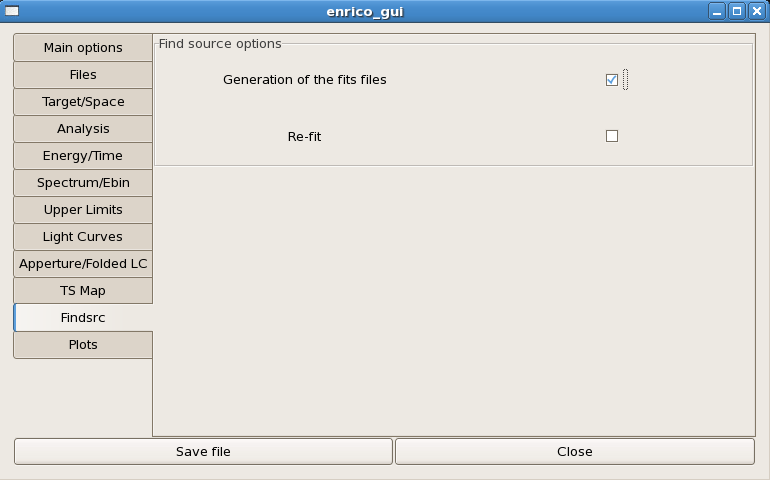
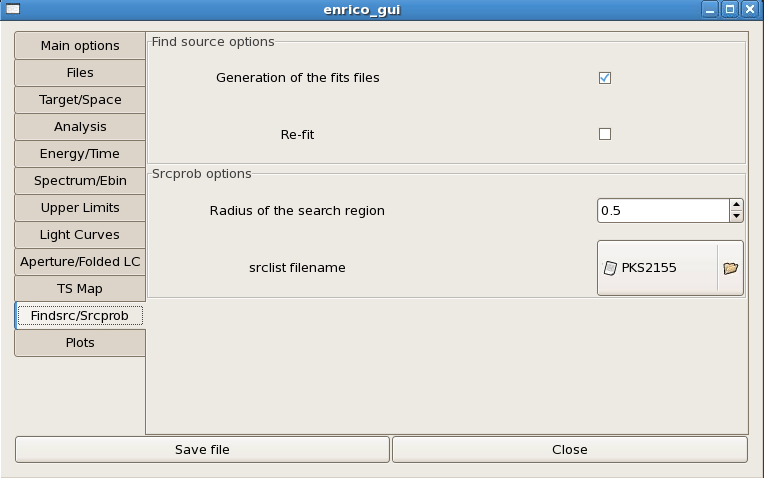
add gtsrcprob

diff --git a/enrico/gui.py b/enrico/gui.py
@@ -173,7 +173,6 @@ class EnricoGui:
         else: 
            self.config['time']['file'] = self.ftime.get_filename()
 
-
         self.config["time"]["type"] = self.listtime.entry.get_text()
 
         self.config["Ebin"]["NumEnergyBins"] = int(self.nebin.get_value())
@@ -201,6 +200,9 @@ class EnricoGui:
 
         self.config["fitting"]["optimizer"] = self.listopt.entry.get_text()
         self.config["fitting"]["ftol"] = pow(10,self.ftol.get_value())
+
+        self.config["srcprob"]["rad"] = self.radsrcprob.get_value()
+        self.config["srcprob"]["srclist"] = self.srclist.get_filename()
 
         self.config.write(open(self.infile, 'w'))
 
@@ -442,26 +444,31 @@ class EnricoGui:
         findsrcbutton.show()
         tablebut.attach(findsrcbutton, 4,6,3,4)
 
+        srcprobbutton = gtk.Button("run enrico_ srcprob")
+        srcprobbutton.connect("clicked", self.Launch, 'enrico_srcprob')
+        srcprobbutton.show()
+        tablebut.attach(srcprobbutton, 2,4,4,5)
+
         sep2 = gtk.HSeparator()
         sep2.show()
-        tablebut.attach(sep2, 0,6,4,5)
+        tablebut.attach(sep2, 0,6,5,6)
 
         applcbutton = gtk.Button("run enrico_ applc")
         applcbutton.connect("clicked", self.Launch, 'enrico_applc')
         applcbutton.show()
-        tablebut.attach(applcbutton,0, 2,5,6)
+        tablebut.attach(applcbutton,0, 2,6,7)
 
         foldedlcbutton = gtk.Button("run enrico_ foldedlc")
         foldedlcbutton.connect("clicked", self.Launch, 'enrico_foldedlc')
         foldedlcbutton.show()
-        tablebut.attach(foldedlcbutton, 2,4,5,6)
+        tablebut.attach(foldedlcbutton, 2,4,6,7)
  
         foldedlcplotbutton = gtk.Button("run enrico_ plot_ foldedlc")
         foldedlcplotbutton.connect("clicked", self.Launch, 'enrico_plot_foldedlc')
         foldedlcplotbutton.show()
-        tablebut.attach(foldedlcplotbutton, 4,6,5,6)
+        tablebut.attach(foldedlcplotbutton, 4,6,6,7)
 
-        BNPage.attach(framebut, 0, 8, 2,6)
+        BNPage.attach(framebut, 0, 8, 2,7)
  
     def _addAnalysis(self):
         BNPage = self.AddBlocNotePage("Analysis")
@@ -953,8 +960,8 @@ class EnricoGui:
         table.attach(label, 0, 2,3,4)
         table.attach(self.listtsmethod, 3,4,3,4)
 
-    def _addfindsrc(self):
-        BNPage = self.AddBlocNotePage("Findsrc")
+    def _addfindsrcsrcprob(self):
+        BNPage = self.AddBlocNotePage("Findsrc/Srcprob")
         frame,table = self._addFrame("Find source options",2,4)
         BNPage.attach(frame, 0, 8, 0, 2)
 
@@ -977,6 +984,25 @@ class EnricoGui:
         label.show()
         table.attach(label,0, 2,1,2)
         table.attach(reFitButton, 3,4,1,2)
+
+        frameprob,tableprob = self._addFrame("Srcprob options",2,4)
+        BNPage.attach(frameprob, 0, 8, 2, 4)
+        self.radsrcprob = self.AddSpinButton(self.config["srcprob"]["rad"],0, 360, .1, 1) 
+
+        labrad = gtk.Label("Radius of the search region")
+        labrad.show()
+        tableprob.attach(labrad,0, 2,0,1)
+        tableprob.attach(self.radsrcprob,3,4,0, 1)
+
+        self.srclist = gtk.FileChooserButton("srclist")
+        self.srclist.set_title("srclist")
+        self.srclist.set_filename(self.config['srcprob']['srclist'])
+        self.srclist.show()
+
+        labsrclist = gtk.Label("srclist filename")
+        labsrclist.show()
+        tableprob.attach(labsrclist,0, 2,1,2)
+        tableprob.attach(self.srclist,3,4,1,2)
 
     def _addPlot(self):
 
@@ -1068,7 +1094,7 @@ class EnricoGui:
         self._addAppFoldedLC()
 #        self._addEbin()
         self._addTSMap()
-        self._addfindsrc()
+        self._addfindsrcsrcprob()
         self._addPlot()
 
         self.notebloc.set_current_page(0)

diff --git a/enrico/gtfunction.py b/enrico/gtfunction.py
@@ -41,6 +41,7 @@ class Observation:
         self.scrMap    = folder+'/'+self.srcname+inttag+"_srcMap.fits"
         self.ModelMap  = folder+'/'+self.srcname+inttag+"_ModelMap.fits"
         self.BinDef  = folder+'/'+self.srcname+inttag+"_BinDef.fits"
+        self.Probfile  = folder+'/'+self.srcname+inttag+"_prob.fits"
 
         #Variables
         self.t1        = float(Configuration['time']['tmin'])
@@ -325,3 +326,14 @@ class Observation:
         findsrc['outfile'] = utils._dump_findsrcout(self.Configuration)
         findsrc.run()
 
+    def SrcProb(self):
+        """Run the gtsrcprob tool"""
+        srcprob = GtApp('gtsrcprob', 'Likelihood')
+        srcprob['evfile'] = self.eventfile
+        srcprob['scfile'] = self.ft2
+        srcprob['irfs'] = self.irfs
+        srcprob['srcmdl'] = self.xmlfile
+        srcprob['outfile'] = self.Probfile
+        srcprob['srclist'] = self.Configuration['srcprob']['srclist']
+        srcprob['clobber'] = self.clobber
+        srcprob.run()

diff --git a/enrico/fitmaker.py b/enrico/fitmaker.py
@@ -134,7 +134,7 @@ class FitMaker(object):
                     NoWeakSrcLeft = False
                     Fit.deleteSource(src)
             if not(NoWeakSrcLeft):
-                self._log('Re-optimize', False)
+                self._log('Re-optimize', '')
                 Fit.fit(0,covar=True, optimizer=self.config['fitting']['optimizer'])
             print
         return Fit

diff --git a/doc/source/gui.rst b/doc/source/gui.rst
@@ -105,11 +105,11 @@ TS Map parameters are managed here
    :align:   center
 
 
-Findsrc page
+Findsrc/srcprob page
 -------------
 
 
-The findsrc tool parameters are managed here
+The findsrc and the srcprob tools parameters are managed here
 
 .. figure::  _static/GuiFindSRC.png
    :align:   center
